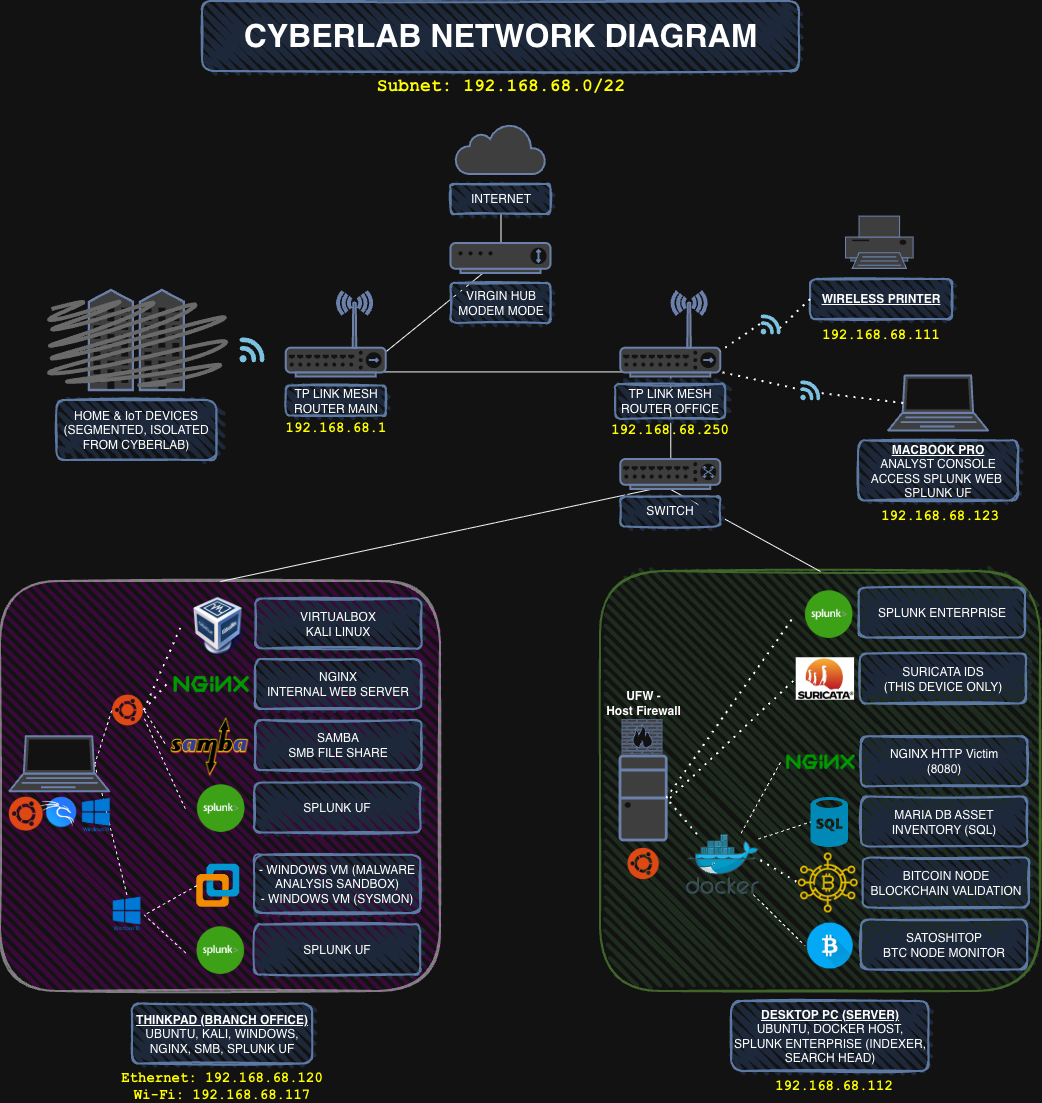
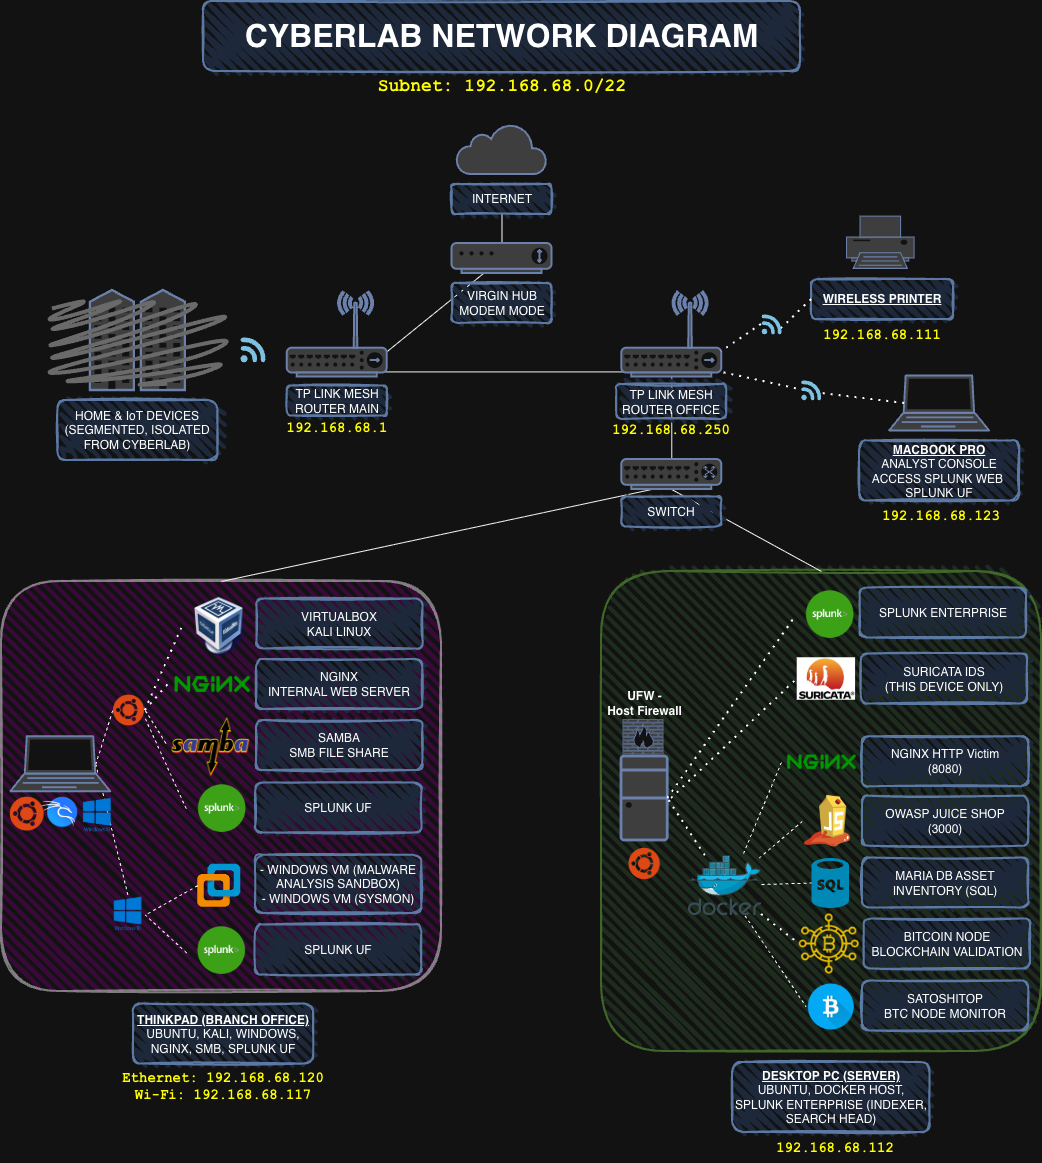
added new detection and case doc, updated README and network diagram

diff --git a/docs/reports/case_002_web_scanner_activity.md b/docs/reports/case_002_web_scanner_activity.md
@@ -1,0 +1,92 @@
+  # CASE-002 — Web Scanner Activity Against Juice Shop Detected (Suricata + UFW corroboration)
+
+**Date:** 04-02-2026   
+**Environment:** Cyberlab  
+**Target:** 192.168.68.112 (SOA)  
+**Service targeted:** OWASP Juice Shop (Docker) on TCP/3000  
+**Source observed:** 192.168.68.117 (Kali VM)
+
+---
+
+## 1) Summary
+A burst of web-scanner-style activity was observed from the Kali VM (192.168.68.117) against OWASP Juice Shop running on SOA (192.168.68.112:3000). Suricata generated multiple web-related alert signatures (ET WEB_SERVER / ET HUNTING) in short time windows, consistent with automated probing and exploit-pattern testing. UFW telemetry corroborated repeated blocked connection attempts to the same target service port (TCP/3000). This was expected in Cyberlab because the scan was intentional (OWASP ZAP), but it confirms the detection logic and telemetry pipeline are working end-to-end.
+
+---
+
+## 2) What triggered investigation
+- **Matched detection:** DET-008 Suricata — Web Attack Signature Burst (ET WEB / HUNTING)
+- **Supporting telemetry:** SOA UFW blocks against TCP/3000 during the same activity window (DET-005 context)
+
+---
+
+## 3) Evidence summary (high-signal fields)
+
+### 3.1 Suricata IDS evidence (web attack signature burst)
+Observed Suricata alert bursts associated with web probing/exploitation patterns:
+
+- **dest_ip:** 192.168.68.112  
+- **src_ip:** 192.168.68.117  
+- **app_proto:** http  
+- **Example signatures observed (burst context):**
+  - ET HUNTING Suspicious PHP Code in HTTP POST (Inbound)
+  - ET HUNTING Suspicious PHP Code in HTTP POST (Outbound)
+  - ET WEB_SERVER Generic PHP Remote File Include
+  - ET WEB_SERVER PHP tags in HTTP POST
+  - ET WEB_SERVER PHP.//Input in HTTP POST
+  - ET WEB_SERVER Possible SQL Injection (exec) in HTTP Request Body
+  - ET WEB_SERVER allow_url_include PHP config option in uri
+  - ET WEB_SERVER auto_prepend_file PHP config option in uri
+
+**Evidence (DET-008):** High-volume alert bursts and multiple distinct signatures within short 5-minute windows, consistent with automated web scanner behaviour rather than normal browsing.
+
+### 3.2 UFW firewall corroboration (blocks)
+UFW telemetry corroborated repeated probing/connection attempts from the Kali VM toward the Juice Shop service on SOA.
+
+- **SRC:** 192.168.68.117 (Kali)
+- **DST:** 192.168.68.112 (SOA)
+- **proto:** TCP
+- **dest_port:** 3000
+- **unique_dest_ports:** 1
+- **blocks:** 77
+- **src_ports:** multiple ephemeral ports observed (repeated connection attempts)
+
+**Interpretation:** Host firewall logs confirm repeated connection/probe attempts against SOA:3000 during the lab activity window. This corroborates Suricata’s web-signature bursts with an independent data source.
+
+---
+
+## 4) Timeline (approx, based on 5-minute Splunk bins)
+> Note: Times are approximate because DET-008 bins activity into 5-minute windows.
+
+- **~13:30–15:50 UTC (approx):** Multiple 5-minute bins show Suricata web-signature bursts associated with automated probing against 192.168.68.112.  
+- **Within the same general window:** UFW recorded repeated blocked connections to TCP/3000 from 192.168.68.117.
+
+---
+
+## 5) Triage notes (what I checked)
+- **Data source:** Suricata alert telemetry corroborated by UFW blocks.
+- **What happened:** Web-scanner-style probing / exploit-pattern testing against a web app service (Juice Shop).
+- **Who did it (source):** 192.168.68.117 (Kali VM).
+- **What was targeted:** SOA (192.168.68.112), specifically the web app service on TCP/3000.
+- **How loud / pattern:** Burst-style alert clusters with multiple distinct web signatures (scan/probe/exploit-pattern behavior).
+- **Corroboration:** UFW telemetry shows repeated blocks toward the same service port during the same window.
+- **Risk call (lab):** Low–Medium. The behaviour is suspicious by nature (it looks like exploitation attempts), but it was authorized lab testing. No follow-on host compromise indicators were assessed in this case.
+
+---
+
+## 6) Response (lab note + real-org playbook)
+**Lab note:** Authorized test (I initiated the scan). No containment/remediation applied.
+
+**If this was *not* authorized in a real org:**
+- **Contain it:** Block or rate-limit the source at the closest control point (WAF/reverse proxy, host firewall, network firewall, NAC). If internal, isolate the endpoint (EDR containment / VLAN quarantine).
+- **Scope it:** Search for the same source hitting other internal web assets; look for similar Suricata web bursts (ET WEB_SERVER / ET HUNTING) across the environment.
+- **Investigate follow-on:** Pivot from the alert window into:
+  - web server/app logs (errors, auth failures, suspicious endpoints),
+  - endpoint telemetry on the target (process creation, file writes, suspicious child processes),
+  - any outbound connections or persistence indicators post-burst.
+- **Reduce risk:** Validate exposure and segmentation (who can reach web services), apply least-privilege network policy, and ensure only intended services are reachable.
+
+---
+
+## 7) Related artifacts
+- **DET-008:** [DET-008 Suricata — Web Attack Signature Burst (ET WEB / HUNTING)](../../docs/detections/det_008_suricata_web_attack)
+- **DET-005:** [DET-005 SOA UFW - Top Blocked Sources (Ports/Proto)](../../docs/detections/det_005_ufw_top_blocked_sources.md)

diff --git a/progress-log.md b/progress-log.md
@@ -5,6 +5,25 @@ Entries are added as new components are installed, tested, or refined.
 
 
 ---
+# 04-02-2026
+OWASP ZAP Web Scan → Suricata Web Alert Burst Detection + Case Report
+
+- Added a new intentionally vulnerable web target to generate realistic web-attack telemetry against SOA:
+  - Deployed **OWASP Juice Shop** in a new Docker container on **SOA** and exposed it on **TCP 3000** (LAN only)
+- Installed **OWASP ZAP** on Kali to generate controlled “web attack” activity for detection validation
+  - Ran an **Automated Scan** against the Juice Shop target (SOA:3000) to generate web probing / exploit-style traffic
+
+- Published a new Suricata detection focused on web exploitation signature bursts:
+  - [DET-008 Suricata — Web Attack Signature Burst (ET WEB / HUNTING)](docs/detections/det_008_suricata_web_attack)  
+
+- Published a second case report to document the end-to-end workflow (test → detect → corroborate):
+  - [CASE-002 — Web Scanner Activity Against SOA Detected (Suricata DET-008 + UFW corroboration)](docs/reports/case_002_web_scanner_activity.md)  
+
+**Screenshot**
+
+![OWASP Zap](assets/owasp_zap.png)
+
+
 ## 03-02-2026
 Suricata Port Scan Detection + Alert + First Case Report
 
@@ -21,7 +40,7 @@ Suricata Port Scan Detection + Alert + First Case Report
     Correlates Suricata ET SCAN alerts with UFW multi-port block telemetry to confirm recon behaviour and verify the pipeline is working.
 
 - Documented a Suricata config finding that affects internal detection visibility in a home lab:
-  - [Finding-002: Suricata default HOME_NET/EXTERNAL_NET settings suppress internal scan alerts in a lab](docs/findings/finding_002:_suricata_ssettings_suppress_internal_scan_alerts.md)  
+  - [Finding-002 Suricata default HOME_NET/EXTERNAL_NET settings suppress internal scan alerts in a lab](docs/findings/finding_002_suricata_settings_suppress_internal_scan_alerts.md)  
     Adjusted network variable scope so internal lab scans are not excluded from triggering scan signatures.
 
 - Updated README to include the new detection, alert, case report, and finding.

diff --git a/docs/reports/case_001_nmap_scan_against_soa_detected.md b/docs/reports/case_001_nmap_scan_against_soa_detected.md
@@ -1,6 +1,6 @@
 # CASE-001 — Nmap Port Scan Against SOA Detected (Suricata + UFW corroboration)
 
-**Date:** 2026-02-02  
+**Date:** 02-02-2026  
 **Environment:** Cyberlab  
 **Target:** 192.168.68.112 (SOA)  
 **Sources observed:** 192.168.68.123 (MacBook), 192.168.68.117 (Kali VM)
